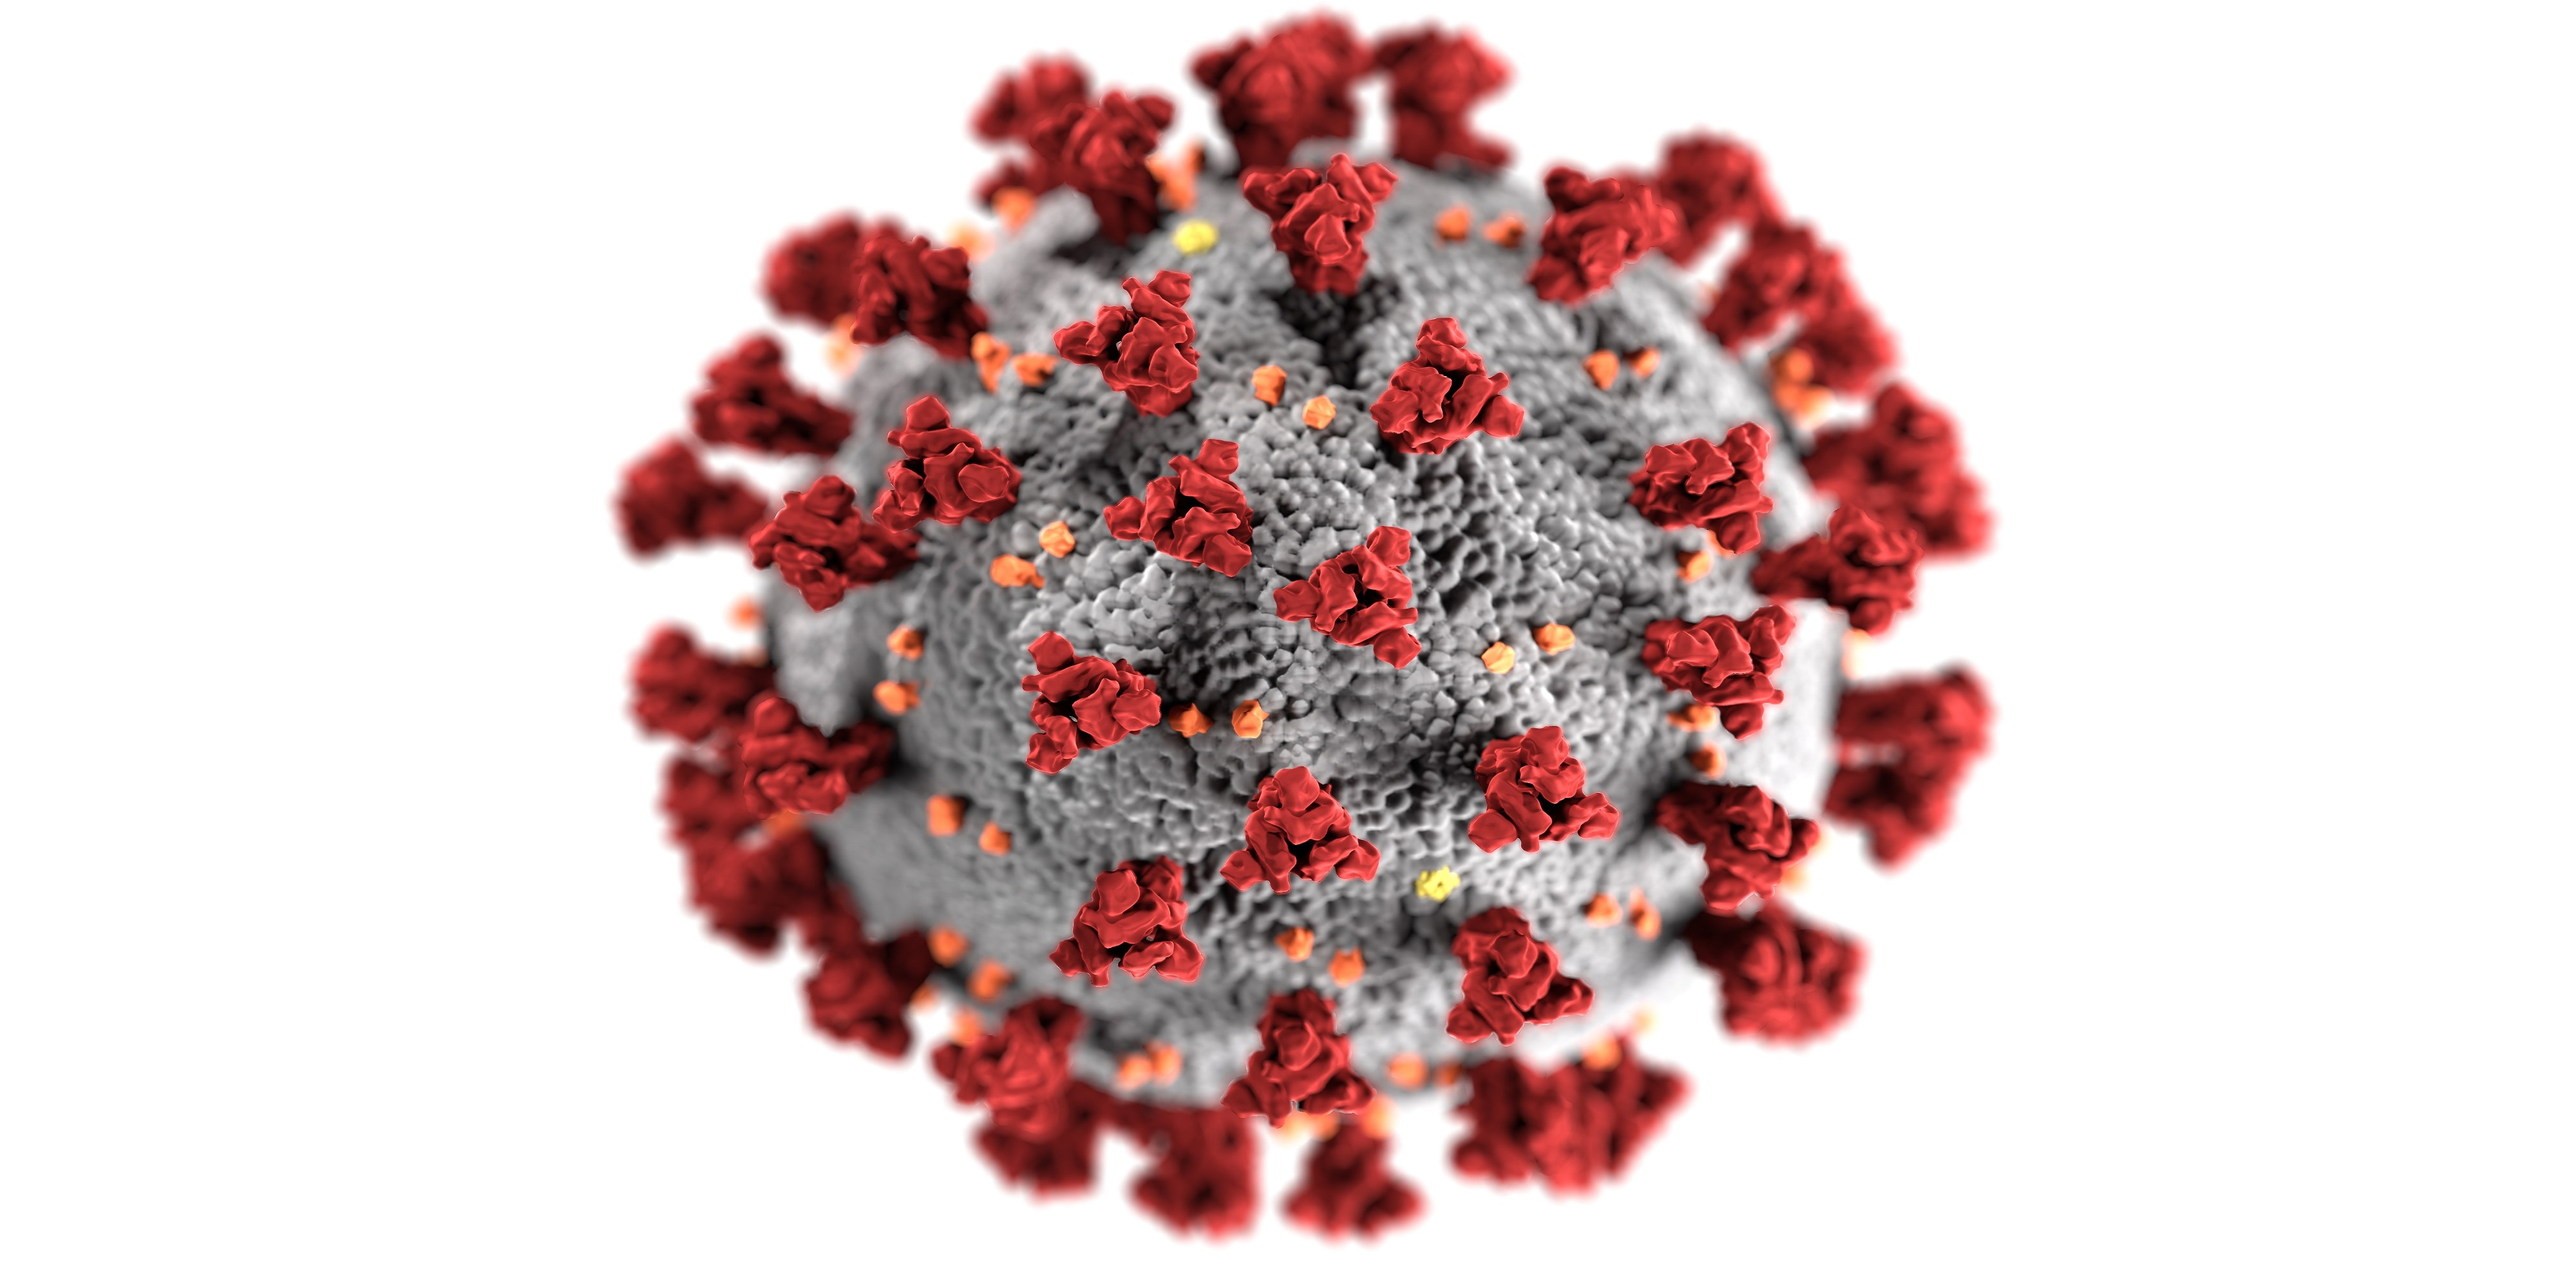
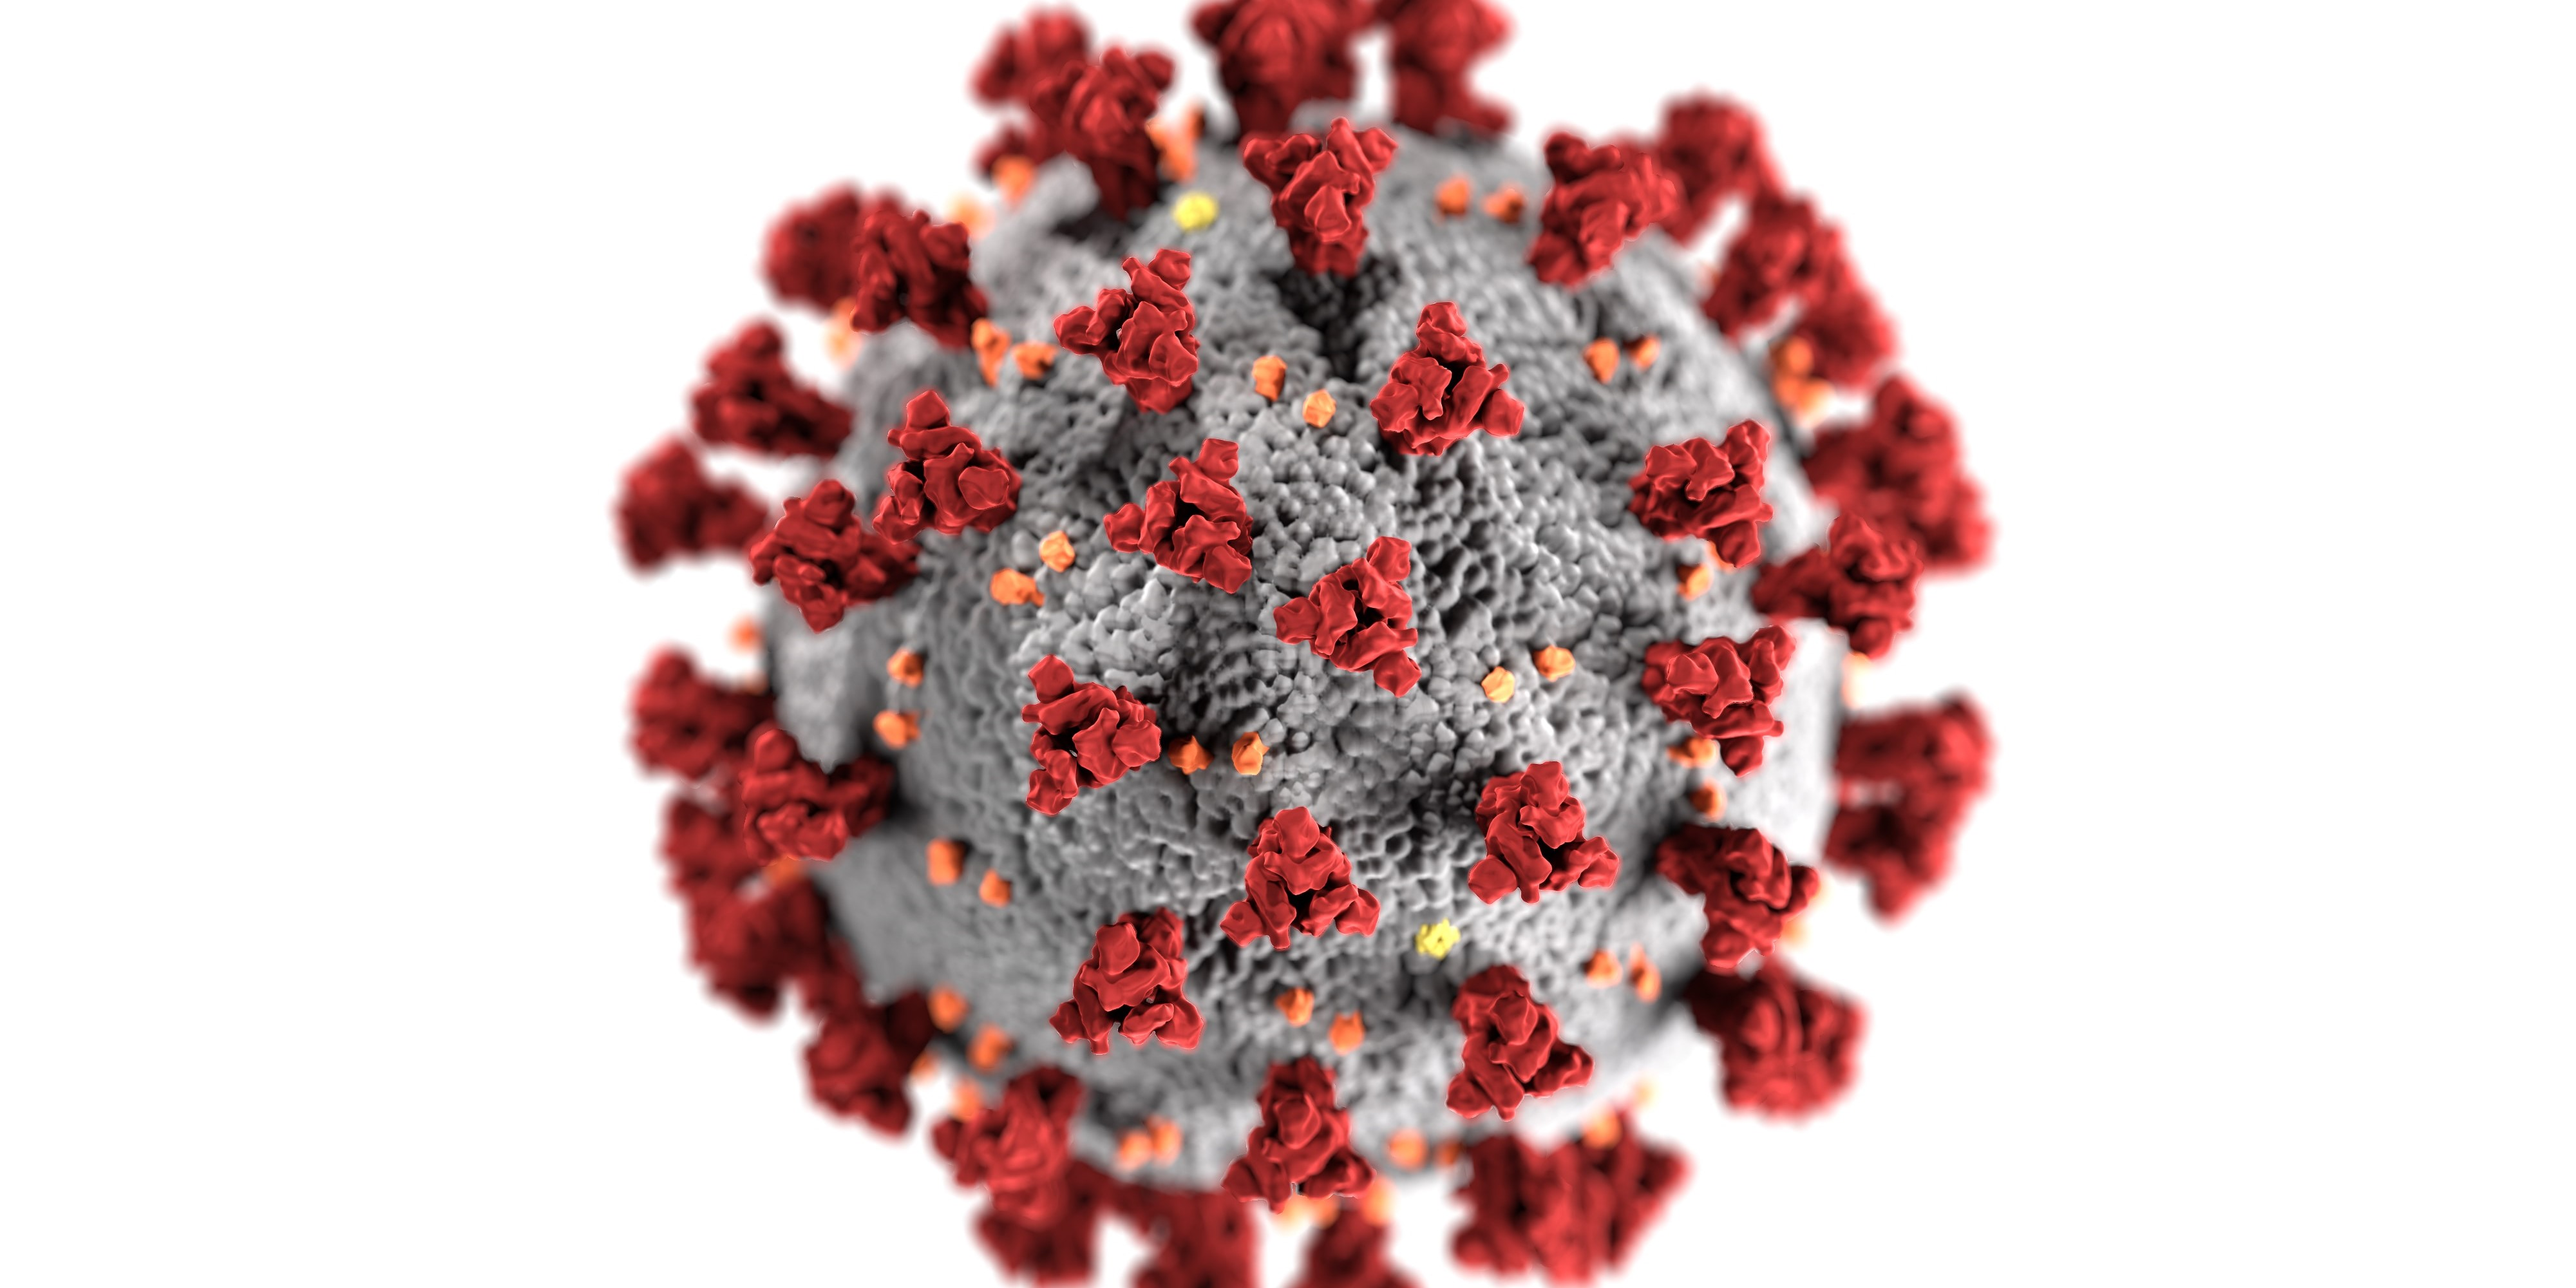
Updates from Sprint 4
Changed the text (shortened)
Cropped the images instead of stretching
Exchanged mpox image
Renamed md file name correctly

Changed region(s): [[0.2188, 0.0, 0.7812, 1.0]]

diff --git a/content/english/topics/antibiotic-resistance.md b/content/english/topics/antibiotic-resistance.md
@@ -1,6 +1,6 @@
 ---
 title: Antibiotic resistance
-description: Antibiotic resistance is a growing problem worldwide. Multiple factors are important in fighting antibiotic resistance in both humans and animals. For example, it is critical that the use of antibiotics and the development of resistance to them is monitored to determine how they are used and how resistance can be prevented. This, together with further research into how resistance develops, is essential in the production of effective policies to minimise antibiotic resistance in future. 
+description: Antibiotic resistance is a global health threat. It occurs when microorganisms develop resistance to antibiotics, impacting healthcare, and food security. Monitoring, research, and policies are crucial to combat resistance and develop effective treatments.
 banner: /topic_thumbs/topic_antibiotic.jpg
 credits:
 toc: false

diff --git a/content/english/topics/mpox.md b/content/english/topics/mpox.md
@@ -1,8 +1,8 @@
 ---
 title: Mpox
-description: Mpox a.k.a. Monkeypox is caused by the mpox virus, and is a zoonotic disease (i.e. it is transmitted from animals to humans). The mpox virus is a member of the Orthopoxvirus genus in the family Poxviridae. It is closely related to the variola virus, which causes smallpox and has had a marked impact on human populations throughout history.
-banner: /topic_thumbs/topic_mpox.png
-credits: Image by Nigeria Centre for Disease Control
+description: Mpox, or Monkeypox, is a zoonotic disease caused by the mpox virus. It belongs to the Orthopoxvirus genus and is closely related to smallpox. While the virus is endemic to West and Central Africa, recent outbreaks in Europe, including Sweden, have raised concerns.
+banner: /topic_thumbs/topic_mpox.jpg
+credits: Image by UK Research and Innovation
 toc: false
 topic: Mpox
 menu:

diff --git a/content/english/topics/covid-19.md b/content/english/topics/covid-19.md
@@ -1,6 +1,6 @@
 ---
 title: COVID-19
-description: The research community worldwide has, in an unprecedented way, focused their research efforts towards investigating the novel SARS-CoV-2 virus and variants, as well as variants of concern have emerged more, and the impact of COVID-19 on human body. These contributions from the research community have been a crucial part of the rapid vaccine development.
+description:  COVID-19, caused by SARS-CoV-2, is a global pandemic challenging societies worldwide. Vaccines are crucial, but research is ongoing to address early detection, variant identification, treatment development, and future preparedness.
 banner: /topic_thumbs/topic_covid.jpg
 credits:
 toc: false

diff --git a/content/english/topics/infectious-diseases.md b/content/english/topics/infectious-diseases.md
@@ -1,6 +1,6 @@
 ---
 title: Infectious diseases
-description: Infectious diseases can spread directly or indirectly in multiple different ways. For example, they may spread through droplets in the air, by exchanging bodily fluids, and by consuming contaminated food. Infectious diseases can spread between humans as well as between animals and humans.
+description: Infectious diseases pose a global health threat. COVID-19 highlighted coronavirus impact, but diseases like Dengue, Ebola, HIV, Measles persist. Research is crucial for understanding pathogenicity, resistance, and developing treatments.
 banner: /topic_thumbs/topic_infectious.jpg
 credits:
 toc: false
